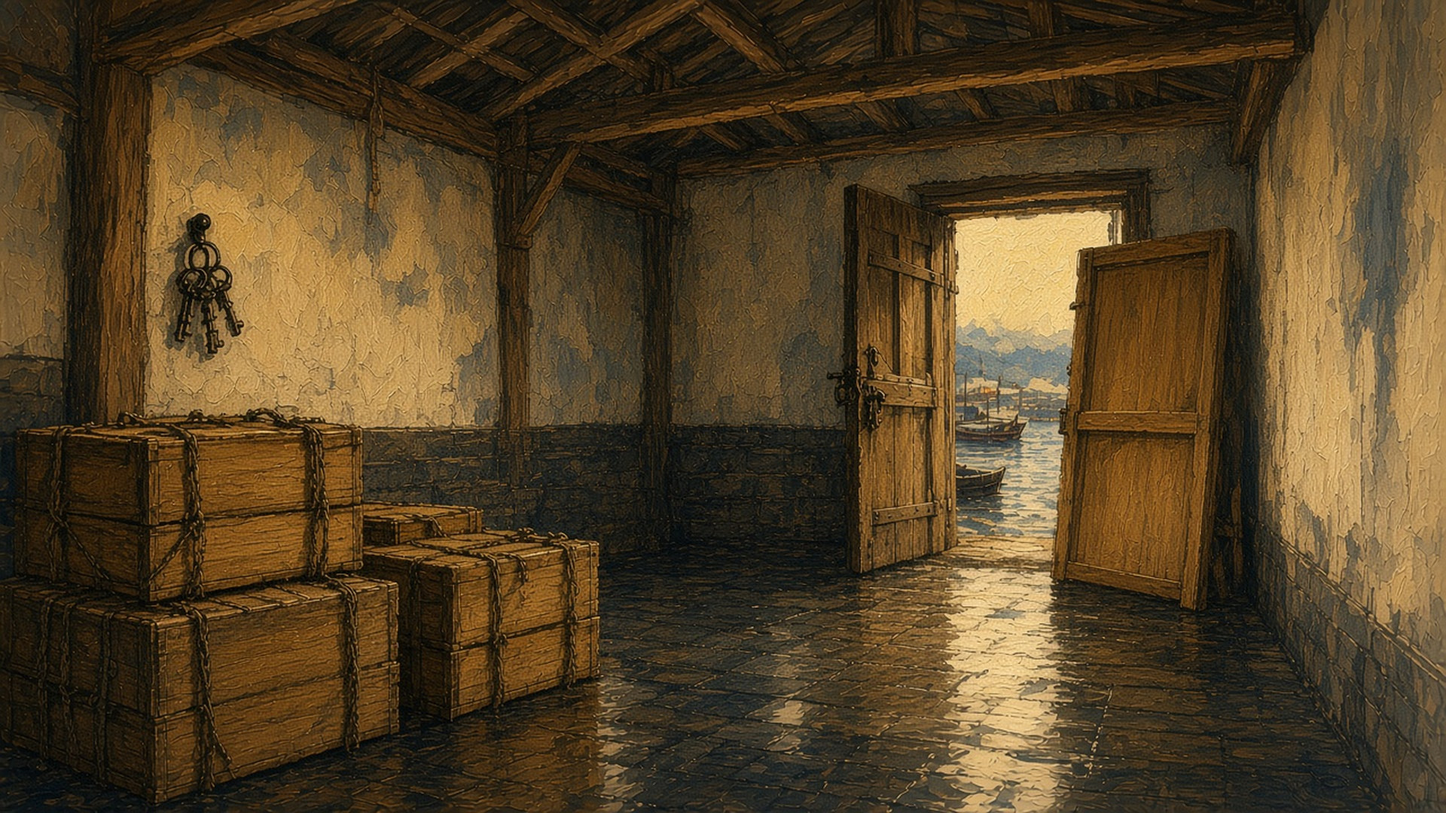
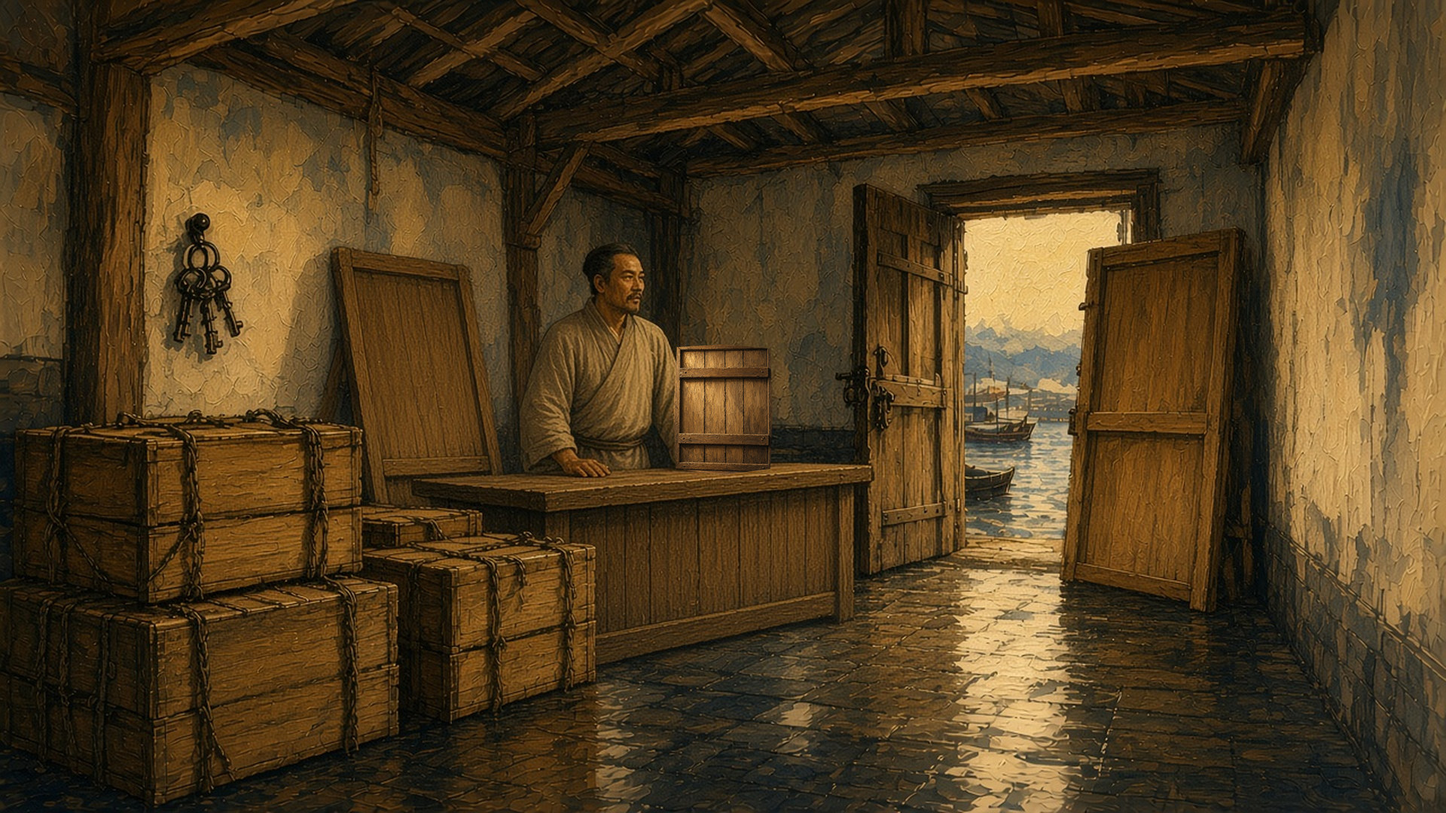
仪门、开元寺、塌房、聚宝、蕃坊、市舶司、扶胥、太宰府补上热区缺的人与物件
告示、香汤盆、塌房主、官秤、祝伯和碑下的蔡荣按热区位置补进画面；开元寺浴佛、施茶、塌房主、验货条、扶胥梢工五处坐标随新物件微调。

diff --git a/docs/scenes/NK1-场景设计稿-20份.md b/docs/scenes/NK1-场景设计稿-20份.md
@@ -257,7 +257,7 @@ Interior of the eastern corridor of the Quanzhou maritime trade office, Southern
 | `qz_shibo_coin` | 书吏本人，写到一半会停笔。 | (0.38, 0.52) | person | 确认花 20 钱后，两句对话（原传闻）。冷却中可重看，不重复给行情。 | 既有 `rumor`，指向博多 `song_coin` ×1.2，冷却 45 日。 |
 | `qz_shibo_boxes` | 廊柱根码着的香药箱子。 | (0.22, 0.70) | goods | 旁白一句。 | 新增 `look`。不改钱货。 |
 | `qz_shibo_scale` | 廊柱边的官秤。 | (0.56, 0.66) | place | 旁白一句。 | 新增 `look`。 |
-| `qz_shibo_notice` | 柱上贴着的验货条子。 | (0.26, 0.30) | place | 旁白一句。条子不要写成可认的大字，点开才用短讯说明。 | 新增 `look`。 |
+| `qz_shibo_notice` | 柱上贴着的验货条子。 | (0.53, 0.37) | place | 旁白一句。条子不要写成可认的大字，点开才用短讯说明。 | 新增 `look`。 |
 | `qz_shibo_hall` | 廊尽头通向正厅的门。 | (0.62, 0.36) | place | 旁白一句，点明货引不在这里办。 | 新增 `look`。可提示回港口走正厅／市舶旧门，不在本区新开货引。 |
 | `qz_shibo_huizi` | 案上压着的一叠会子。 | (0.42, 0.64) | goods | 旁白一句。 | 新增 `look`。 |
 
@@ -617,8 +617,8 @@ Courtyard of Kaiyuan Temple, Quanzhou, Southern Song, early morning. Rice-paper 
 | `qz_kaiyuan_towers` | 两塔之间的石地，可仰头。 | (0.48, 0.42) | place | 一句后出两条路：「登东塔」「登西塔」。每年一次。 | 既有 `choice`。需新的双按钮，不能只用「确认」。 |
 | `qz_kaiyuan_incense` | 殿前香柜。 | (0.40, 0.66) | place | 确认「上香　10钱」。每月一次。 | 既有 `favour`。 |
 | `qz_kaiyuan_print` | 寺前书摊。 | (0.18, 0.74) | goods | 无 `qz_bang_print`：还没到那一步。有则确认「请印本经」。 | 既有 `buy`，0.9，需 flag。 |
-| `qz_kaiyuan_tea` | 西廊茶桶。 | (0.34, 0.70) | goods | 确认「施茶　20钱」。每月一次。 | 既有 `favour`。 |
-| `qz_kaiyuan_buddha` | 双塔下的香汤盆。 | (0.52, 0.62) | place | 非四月：还不是这个月的事。四月：确认「浴佛　15钱」。每年一次。 | 既有 `favour`，`months: [4]`。 |
+| `qz_kaiyuan_tea` | 西廊茶桶。 | (0.31, 0.86) | goods | 确认「施茶　20钱」。每月一次。 | 既有 `favour`。 |
+| `qz_kaiyuan_buddha` | 双塔下的香汤盆。 | (0.40, 0.84) | place | 非四月：还不是这个月的事。四月：确认「浴佛　15钱」。每年一次。 | 既有 `favour`，`months: [4]`。 |
 
 ## 4. 各热区细致交互
 
@@ -940,7 +940,7 @@ Inside a Southern Song Quanzhou warehouse near the harbour, late afternoon. Rice
 | `qz_tafang_rent` | 一间空仓的门。 | (0.30, 0.50) | place | 确认「包一间」。 | 既有 `invest`。 |
 | `qz_tafang_quiet` | 靠后门的一堆瓷箱。 | (0.48, 0.66) | goods | 确认「悄悄出瓷」。注明行情牌不动。 | 既有 `sell`，福建瓷 6，0.92，`impact: false`。 |
 | `qz_tafang_watch` | 通道里可走一遭的空位。 | (0.40, 0.58) | place | 确认「查仓　10钱」。每月一次。 | 既有 `favour`。 |
-| `qz_tafang_loan` | 塌房主本人，站在柜后。 | (0.36, 0.44) | person | 一次两路：「借他」「照收租」。 | 既有 `choice`。 |
+| `qz_tafang_loan` | 塌房主本人，站在柜后。 | (0.40, 0.44) | person | 一次两路：「借他」「照收租」。 | 既有 `choice`。 |
 | `qz_tafang_keys` | 墙上的钥匙串。 | (0.22, 0.42) | goods | 旁白一句。 | 新增 `look`。 |
 | `qz_tafang_marks` | 箱上的粉笔记号。 | (0.54, 0.62) | goods | 旁白一句。 | 新增 `look`。 |
 | `qz_tafang_backdoor` | 后门缝。 | (0.62, 0.48) | place | 旁白一句。 | 新增 `look`。 |
@@ -1665,7 +1665,7 @@ Fuxu wharf, Guangzhou, Southern Song, mid-morning. Rice paper, ink line. Near: a
 |---|---|---:|---|---|---|
 | `gz_fuxu_salt` | 石岸上的盐包。 | (0.24, 0.66) | goods | 确认「收海盐」。 | `buy`，8，0.92。 |
 | `gz_fuxu_pepper` | 跳板边问货的人／胡椒袋。 | (0.56, 0.62) | goods | 确认「出手胡椒」。 | `sell`，3，1.06。 |
-| `gz_fuxu_rumor` | 番船船楼上可问的梢工。 | (0.60, 0.34) | ship | 确认「问番船　16钱」。 | `rumor`，占城胡椒 ×1.22，40 日。 |
+| `gz_fuxu_rumor` | 番船船楼上可问的梢工。 | (0.45, 0.50) | ship | 确认「问番船　16钱」。 | `rumor`，占城胡椒 ×1.22，40 日。 |
 | `gz_fuxu_pilot` | 跳板旁补绳的熟港梢工。 | (0.44, 0.52) | person | 确认「请梢工　30钱」。一次。 | `favour`，flag `gz_fuxu_pilot`。 |
 | `gz_fuxu_fast` | 跳板下替商船收盐的队列。 | (0.38, 0.76) | person | 未请梢工：先请梢工。已请：确认「托梢工收盐」。 | `buy`，10，0.86，需 flag。 |
 | `npc_zhubo_letter` | 手里油纸包札的祝伯。 | (0.32, 0.48) | person | 未在神庙问过札：还没到那一步。问过：确认「托札」。 | `favour`，需 `npc_zhubo_asked`。 |

diff --git a/docs/scenes/03-qz_kaiyuan-开元寺双塔.md b/docs/scenes/03-qz_kaiyuan-开元寺双塔.md
@@ -74,8 +74,8 @@ Courtyard of Kaiyuan Temple, Quanzhou, Southern Song, early morning. Rice-paper 
 | `qz_kaiyuan_towers` | 两塔之间的石地，可仰头。 | (0.40, 0.72) | place | 一句后出两条路：「登东塔」「登西塔」。每年一次。 | 既有 `choice`。需新的双按钮，不能只用「确认」。 |
 | `qz_kaiyuan_incense` | 殿前香柜。 | (0.48, 0.68) | place | 确认「上香　10钱」。每月一次。 | 既有 `favour`。 |
 | `qz_kaiyuan_print` | 寺前书摊。 | (0.16, 0.86) | goods | 无 `qz_bang_print`：还没到那一步。有则确认「请印本经」。 | 既有 `buy`，0.9，需 flag。 |
-| `qz_kaiyuan_tea` | 西廊茶桶。 | (0.30, 0.78) | goods | 确认「施茶　20钱」。每月一次。 | 既有 `favour`。 |
-| `qz_kaiyuan_buddha` | 双塔下的香汤盆。 | (0.40, 0.62) | place | 非四月：还不是这个月的事。四月：确认「浴佛　15钱」。每年一次。 | 既有 `favour`，`months: [4]`。 |
+| `qz_kaiyuan_tea` | 西廊茶桶。 | (0.31, 0.86) | goods | 确认「施茶　20钱」。每月一次。 | 既有 `favour`。 |
+| `qz_kaiyuan_buddha` | 双塔下的香汤盆。 | (0.40, 0.84) | place | 非四月：还不是这个月的事。四月：确认「浴佛　15钱」。每年一次。 | 既有 `favour`，`months: [4]`。 |
 
 ## 4. 各热区细致交互
 

diff --git a/docs/scenes/01-qz_shibo-市舶司东廊.md b/docs/scenes/01-qz_shibo-市舶司东廊.md
@@ -82,7 +82,7 @@ Interior of the eastern corridor of the Quanzhou maritime trade office, Southern
 | `qz_shibo_coin` | 书吏本人，写到一半会停笔。 | (0.18, 0.58) | person | 确认花 20 钱后，两句对话（原传闻）。冷却中可重看，不重复给行情。 | 既有 `rumor`，指向博多 `song_coin` ×1.2，冷却 45 日。 |
 | `qz_shibo_boxes` | 廊柱根码着的香药箱子。 | (0.46, 0.58) | goods | 旁白一句。 | 新增 `look`。不改钱货。 |
 | `qz_shibo_scale` | 廊柱边的官秤。 | (0.52, 0.68) | place | 旁白一句。 | 新增 `look`。 |
-| `qz_shibo_notice` | 柱上贴着的验货条子。 | (0.49, 0.34) | place | 旁白一句。条子不要写成可认的大字，点开才用短讯说明。 | 新增 `look`。 |
+| `qz_shibo_notice` | 柱上贴着的验货条子。 | (0.53, 0.37) | place | 旁白一句。条子不要写成可认的大字，点开才用短讯说明。 | 新增 `look`。 |
 | `qz_shibo_hall` | 廊尽头通向正厅的门。 | (0.66, 0.34) | place | 旁白一句，点明货引不在这里办。 | 新增 `look`。可提示回港口走正厅／市舶旧门，不在本区新开货引。 |
 | `qz_shibo_huizi` | 案上压着的一叠会子。 | (0.23, 0.74) | goods | 旁白一句。 | 新增 `look`。 |
 

diff --git a/docs/scenes/10-gz_fuxu-扶胥码头.md b/docs/scenes/10-gz_fuxu-扶胥码头.md
@@ -59,7 +59,7 @@ Fuxu wharf, Guangzhou, Southern Song, mid-morning. Rice paper, ink line. Near: a
 |---|---|---:|---|---|---|
 | `gz_fuxu_salt` | 石岸上的盐包。 | (0.24, 0.78) | goods | 确认「收海盐」。 | `buy`，8，0.92。 |
 | `gz_fuxu_pepper` | 跳板边问货的人／胡椒袋。 | (0.34, 0.86) | goods | 确认「出手胡椒」。 | `sell`，3，1.06。 |
-| `gz_fuxu_rumor` | 番船船楼上可问的梢工。 | (0.40, 0.46) | ship | 确认「问番船　16钱」。 | `rumor`，占城胡椒 ×1.22，40 日。 |
+| `gz_fuxu_rumor` | 番船船楼上可问的梢工。 | (0.45, 0.50) | ship | 确认「问番船　16钱」。 | `rumor`，占城胡椒 ×1.22，40 日。 |
 | `gz_fuxu_pilot` | 跳板旁补绳的熟港梢工。 | (0.38, 0.70) | person | 确认「请梢工　30钱」。一次。 | `favour`，flag `gz_fuxu_pilot`。 |
 | `gz_fuxu_fast` | 跳板下替商船收盐的队列。 | (0.10, 0.64) | person | 未请梢工：先请梢工。已请：确认「托梢工收盐」。 | `buy`，10，0.86，需 flag。 |
 | `npc_zhubo_letter` | 手里油纸包札的祝伯。 | (0.24, 0.56) | person | 未在神庙问过札：还没到那一步。问过：确认「托札」。 | `favour`，需 `npc_zhubo_asked`。 |

diff --git a/docs/scenes/05-qz_tafang-塌房.md b/docs/scenes/05-qz_tafang-塌房.md
@@ -60,7 +60,7 @@ Inside a Southern Song Quanzhou warehouse near the harbour, late afternoon. Rice
 | `qz_tafang_rent` | 一间空仓的门。 | (0.55, 0.40) | place | 确认「包一间」。 | 既有 `invest`。 |
 | `qz_tafang_quiet` | 靠后门的一堆瓷箱。 | (0.16, 0.78) | goods | 确认「悄悄出瓷」。注明行情牌不动。 | 既有 `sell`，福建瓷 6，0.92，`impact: false`。 |
 | `qz_tafang_watch` | 通道里可走一遭的空位。 | (0.44, 0.66) | place | 确认「查仓　10钱」。每月一次。 | 既有 `favour`。 |
-| `qz_tafang_loan` | 塌房主本人，站在柜后。 | (0.26, 0.48) | person | 一次两路：「借他」「照收租」。 | 既有 `choice`。 |
+| `qz_tafang_loan` | 塌房主本人，站在柜后。 | (0.40, 0.44) | person | 一次两路：「借他」「照收租」。 | 既有 `choice`。 |
 | `qz_tafang_keys` | 墙上的钥匙串。 | (0.12, 0.36) | goods | 旁白一句。 | 新增 `look`。 |
 | `qz_tafang_marks` | 箱上的粉笔记号。 | (0.20, 0.58) | goods | 旁白一句。 | 新增 `look`。 |
 | `qz_tafang_backdoor` | 后门缝。 | (0.64, 0.48) | place | 旁白一句。 | 新增 `look`。 |
